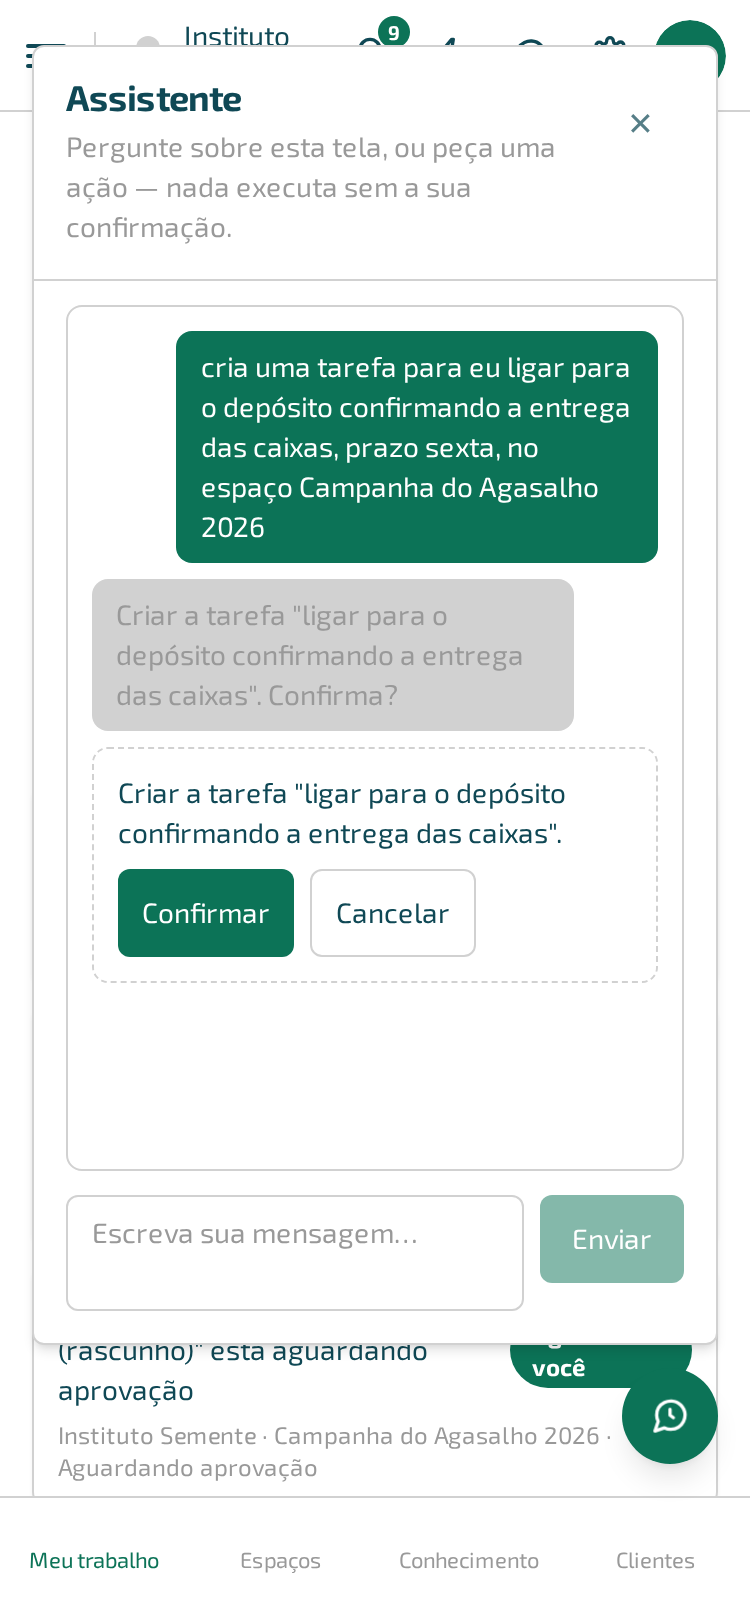
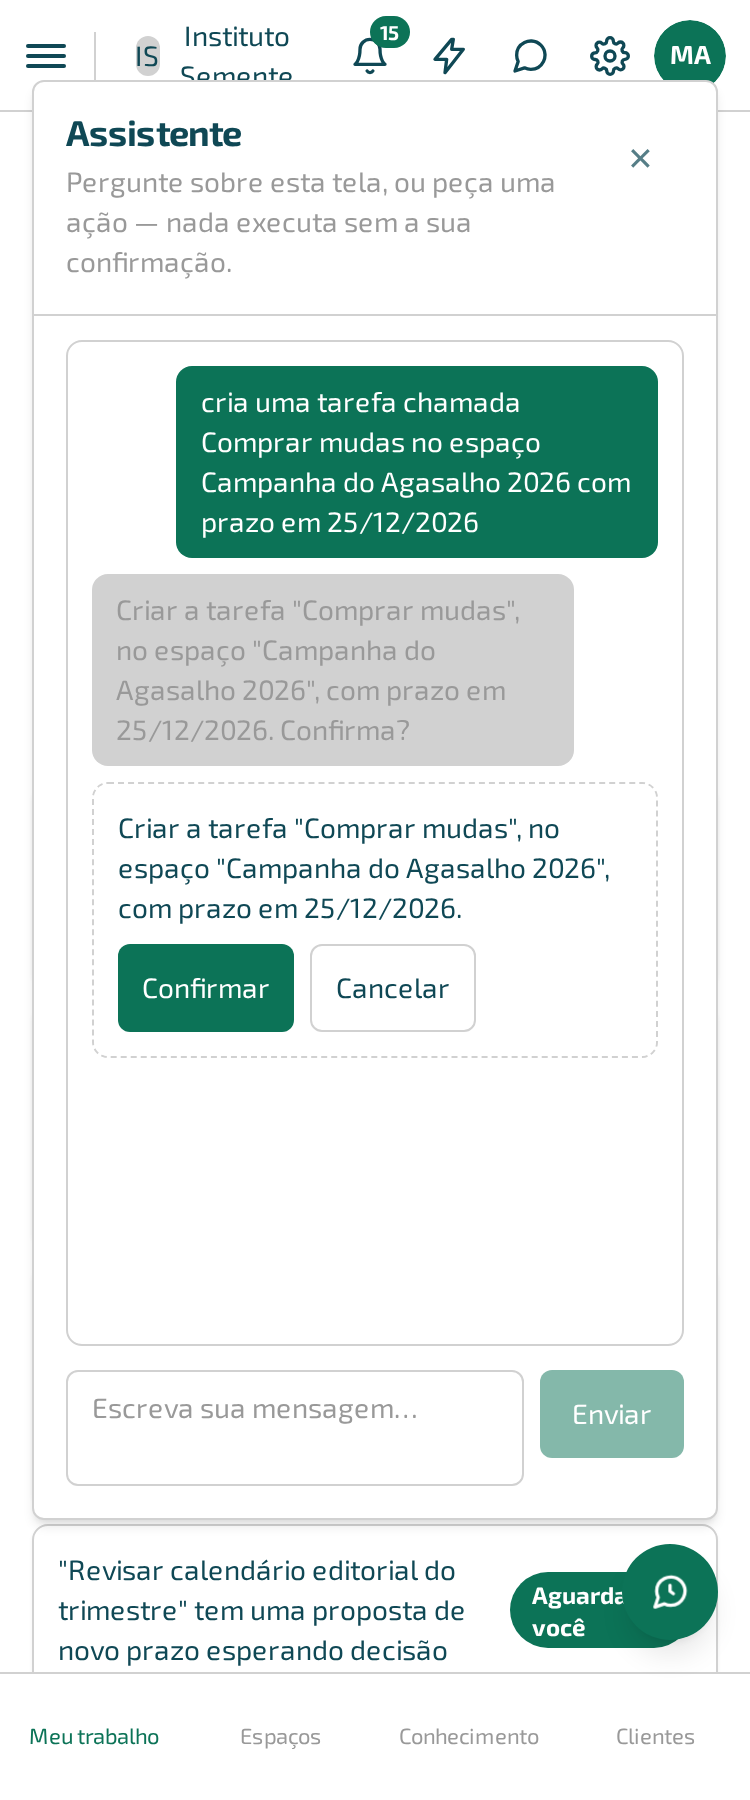
docs(manual): publica 2026-09-25

diff --git a/assistente.md b/assistente.md
@@ -31,22 +31,6 @@ janela, você continua exatamente onde estava, sem precisar navegar de volta.
 Para fechar, use o botão **"Fechar"** (o ✕ no canto do cabeçalho), pressione Esc, ou clique fora da
 janela — as três formas funcionam.
 
-<!-- CAPTURA PENDENTE: janela do assistente, desktop e celular, com uma prévia de ação na tela.
-     As imagens anteriores mostravam a prévia antiga, de uma linha só, e foram removidas; a da
-     0.21.0 cita espaço, prazo e responsável.
-
-     Tentativa de 25/09/2026 (0.30.0): rodei Projeto/bin/capturas/assistente.mjs contra o
-     assistente subido com `npm run dev:ia-de-mentira`, pedindo "cria uma tarefa chamada Comprar
-     mudas no espaço Campanha do Agasalho 2026 com prazo em 25/09/2026" — 4 tentativas em desktop e
-     4 em celular, todas responderam SEM prévia (eco em texto simples). Causa apurada no código: o
-     adaptador de mentira só roteia a palavra-chave "pendência" para uma ferramenta de verdade;
-     qualquer outro pedido, inclusive criar tarefa, cai num eco de texto e nunca produz a prévia
-     "Confirmar"/"Cancelar" que esta captura precisa mostrar. Registrado como
-     RIT360-Realiza-Code#186 (adaptador de mentira não gera prévia de ação). A issue #173
-     (fuso das datas) já foi corrigida — não é mais bloqueio aqui.
-
-     Refazer só depois de #186 resolvida, ou usando um provedor de IA de verdade (gasta cota). -->
-
 ## Conversar
 
 1. No campo **"Mensagem para o assistente"** — o que mostra "Escreva sua mensagem…" enquanto está
@@ -119,6 +103,10 @@ tarefa vai nascer, o prazo e o responsável, quando você tiver dito algum deles
 
 > Criar a tarefa "ligar para o depósito confirmando a entrega das caixas", no espaço "Campanha do
 > Agasalho 2026", com prazo em 25/09/2026. Confirma?
+
+![Janela do assistente com a prévia de uma ação — "Criar a tarefa 'Comprar mudas', no espaço 'Campanha do Agasalho 2026', com prazo em 25/12/2026" — e os botões "Confirmar" e "Cancelar"](/assets/capturas/assistente-janela-desktop.png)
+
+![Janela do assistente com a prévia de uma ação — "Criar a tarefa 'Comprar mudas', no espaço 'Campanha do Agasalho 2026', com prazo em 25/12/2026" — e os botões "Confirmar" e "Cancelar" — no celular](/assets/capturas/assistente-janela-celular.png){: style="max-width:375px" }
 
 As prévias de excluir tarefa e de remover participante dizem de qual espaço; as de reprogramação
 de prazo e de ajuste de entrega dizem o motivo.
